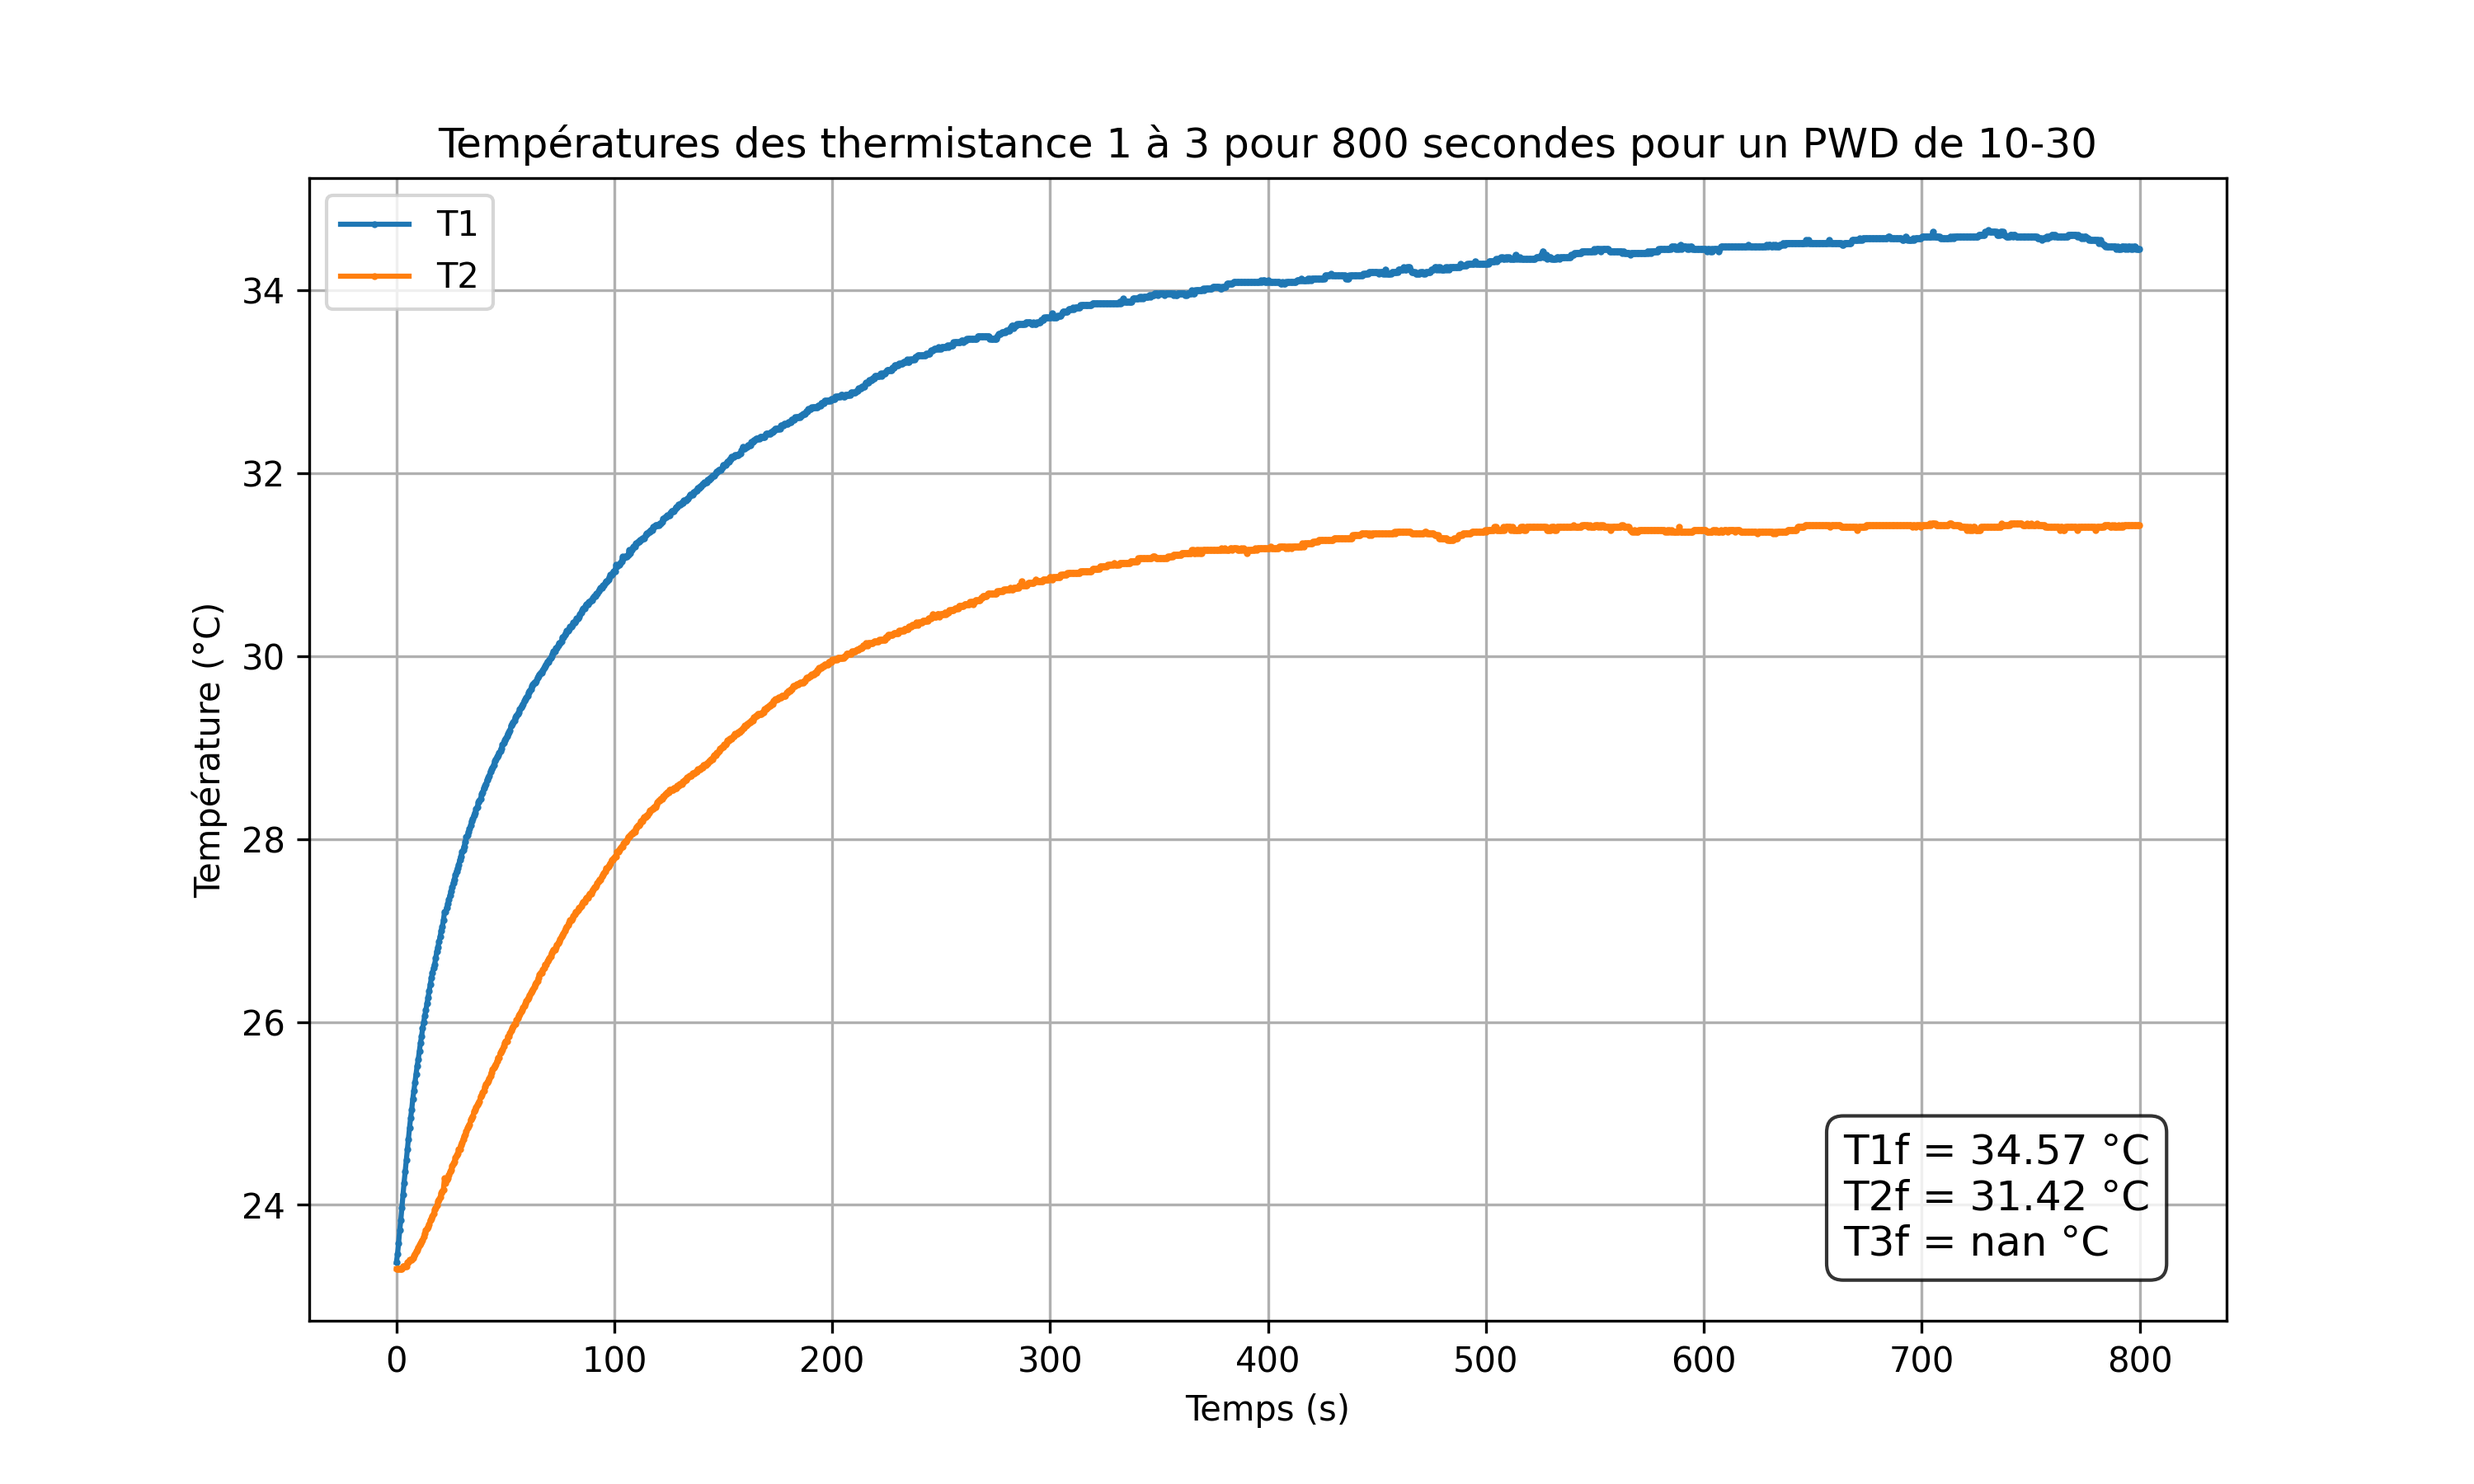
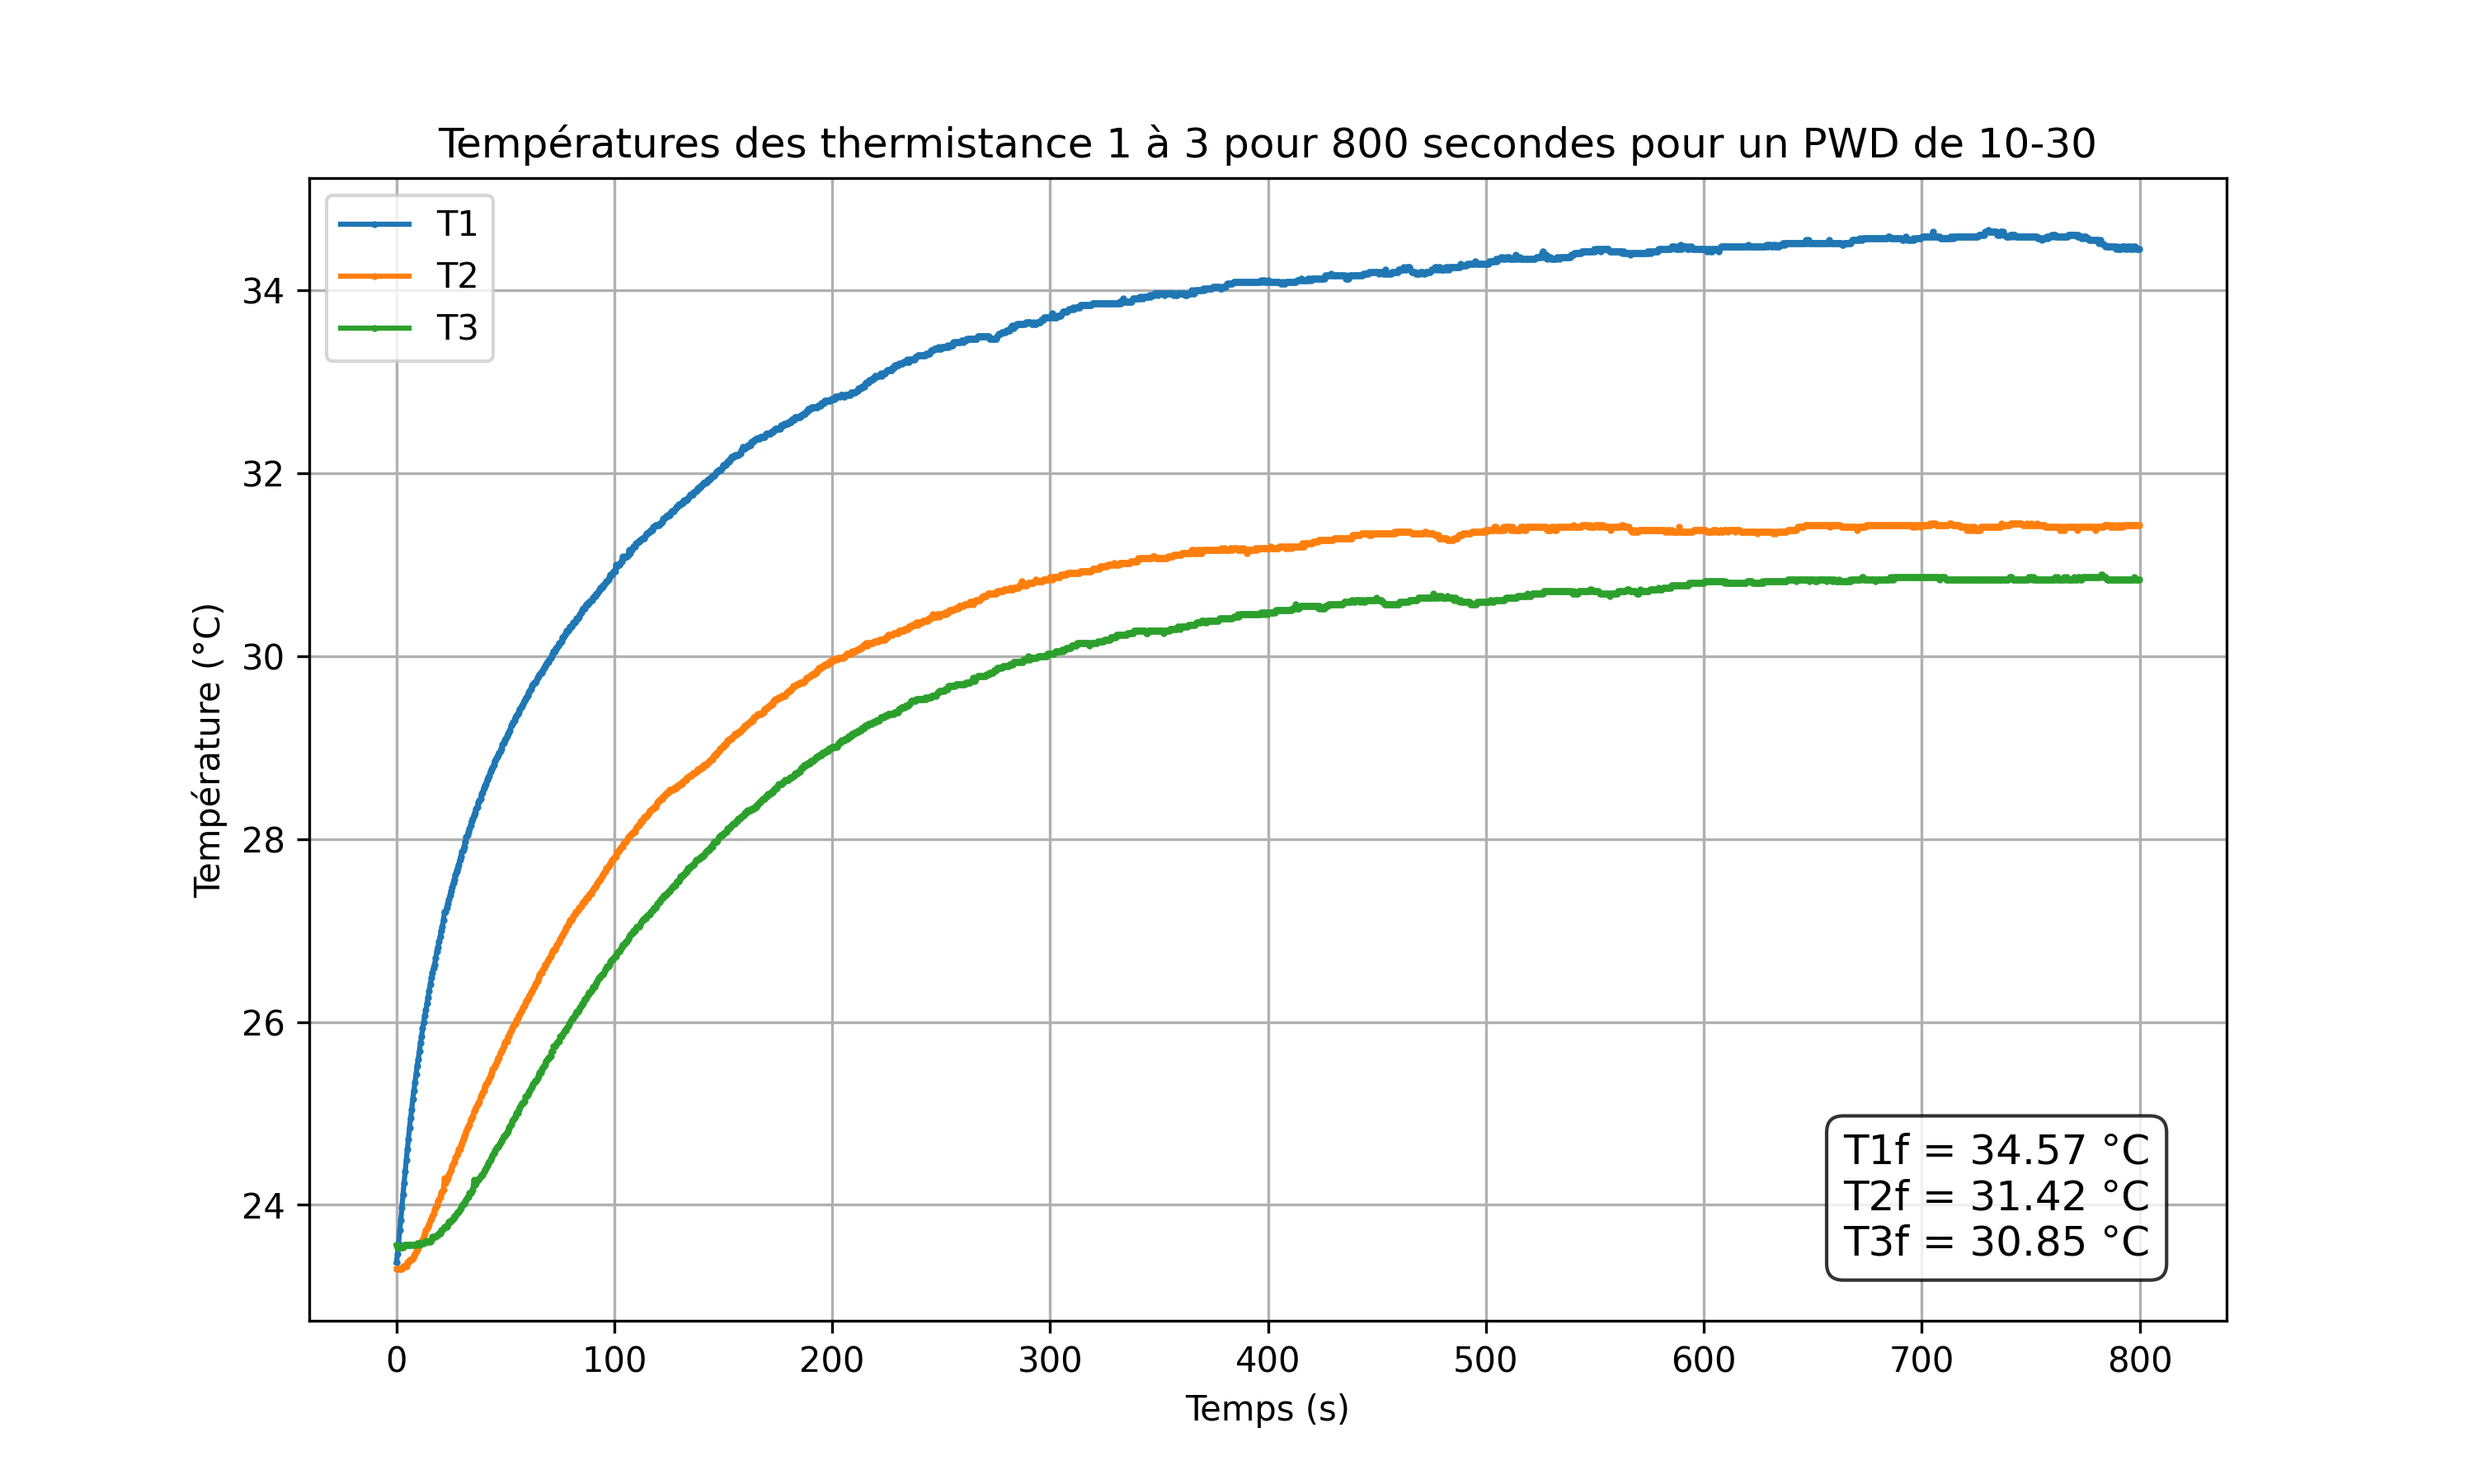
print

diff --git a/simulation python/test_faster_claude_vect.py b/simulation python/test_faster_claude_vect.py
@@ -207,3 +207,15 @@ ax3D.set_title(f"Température de la plaque – t = {t_simulation:.2f} s")
 ax3D.legend()
 
 plt.show()
+
+derniers_100s = int(100 / dt)  # Nombre de points correspondant aux 100 dernières secondes
+
+# Pour trois thermistances
+T1_moyenne = np.mean(T1[-derniers_100s:])
+T2_moyenne = np.mean(T2[-derniers_100s:])
+T3_moyenne = np.mean(T3[-derniers_100s:])
+
+print(f"\nTempératures moyennes sur les 100 dernières secondes pour h = {h_conv} et p = {Pin}:")
+print(f"Thermistance 1: {T1_moyenne:.2f} ")
+print(f"Thermistance 2: {T2_moyenne:.2f} ")
+print(f"Thermistance 3: {T3_moyenne:.2f} ")
